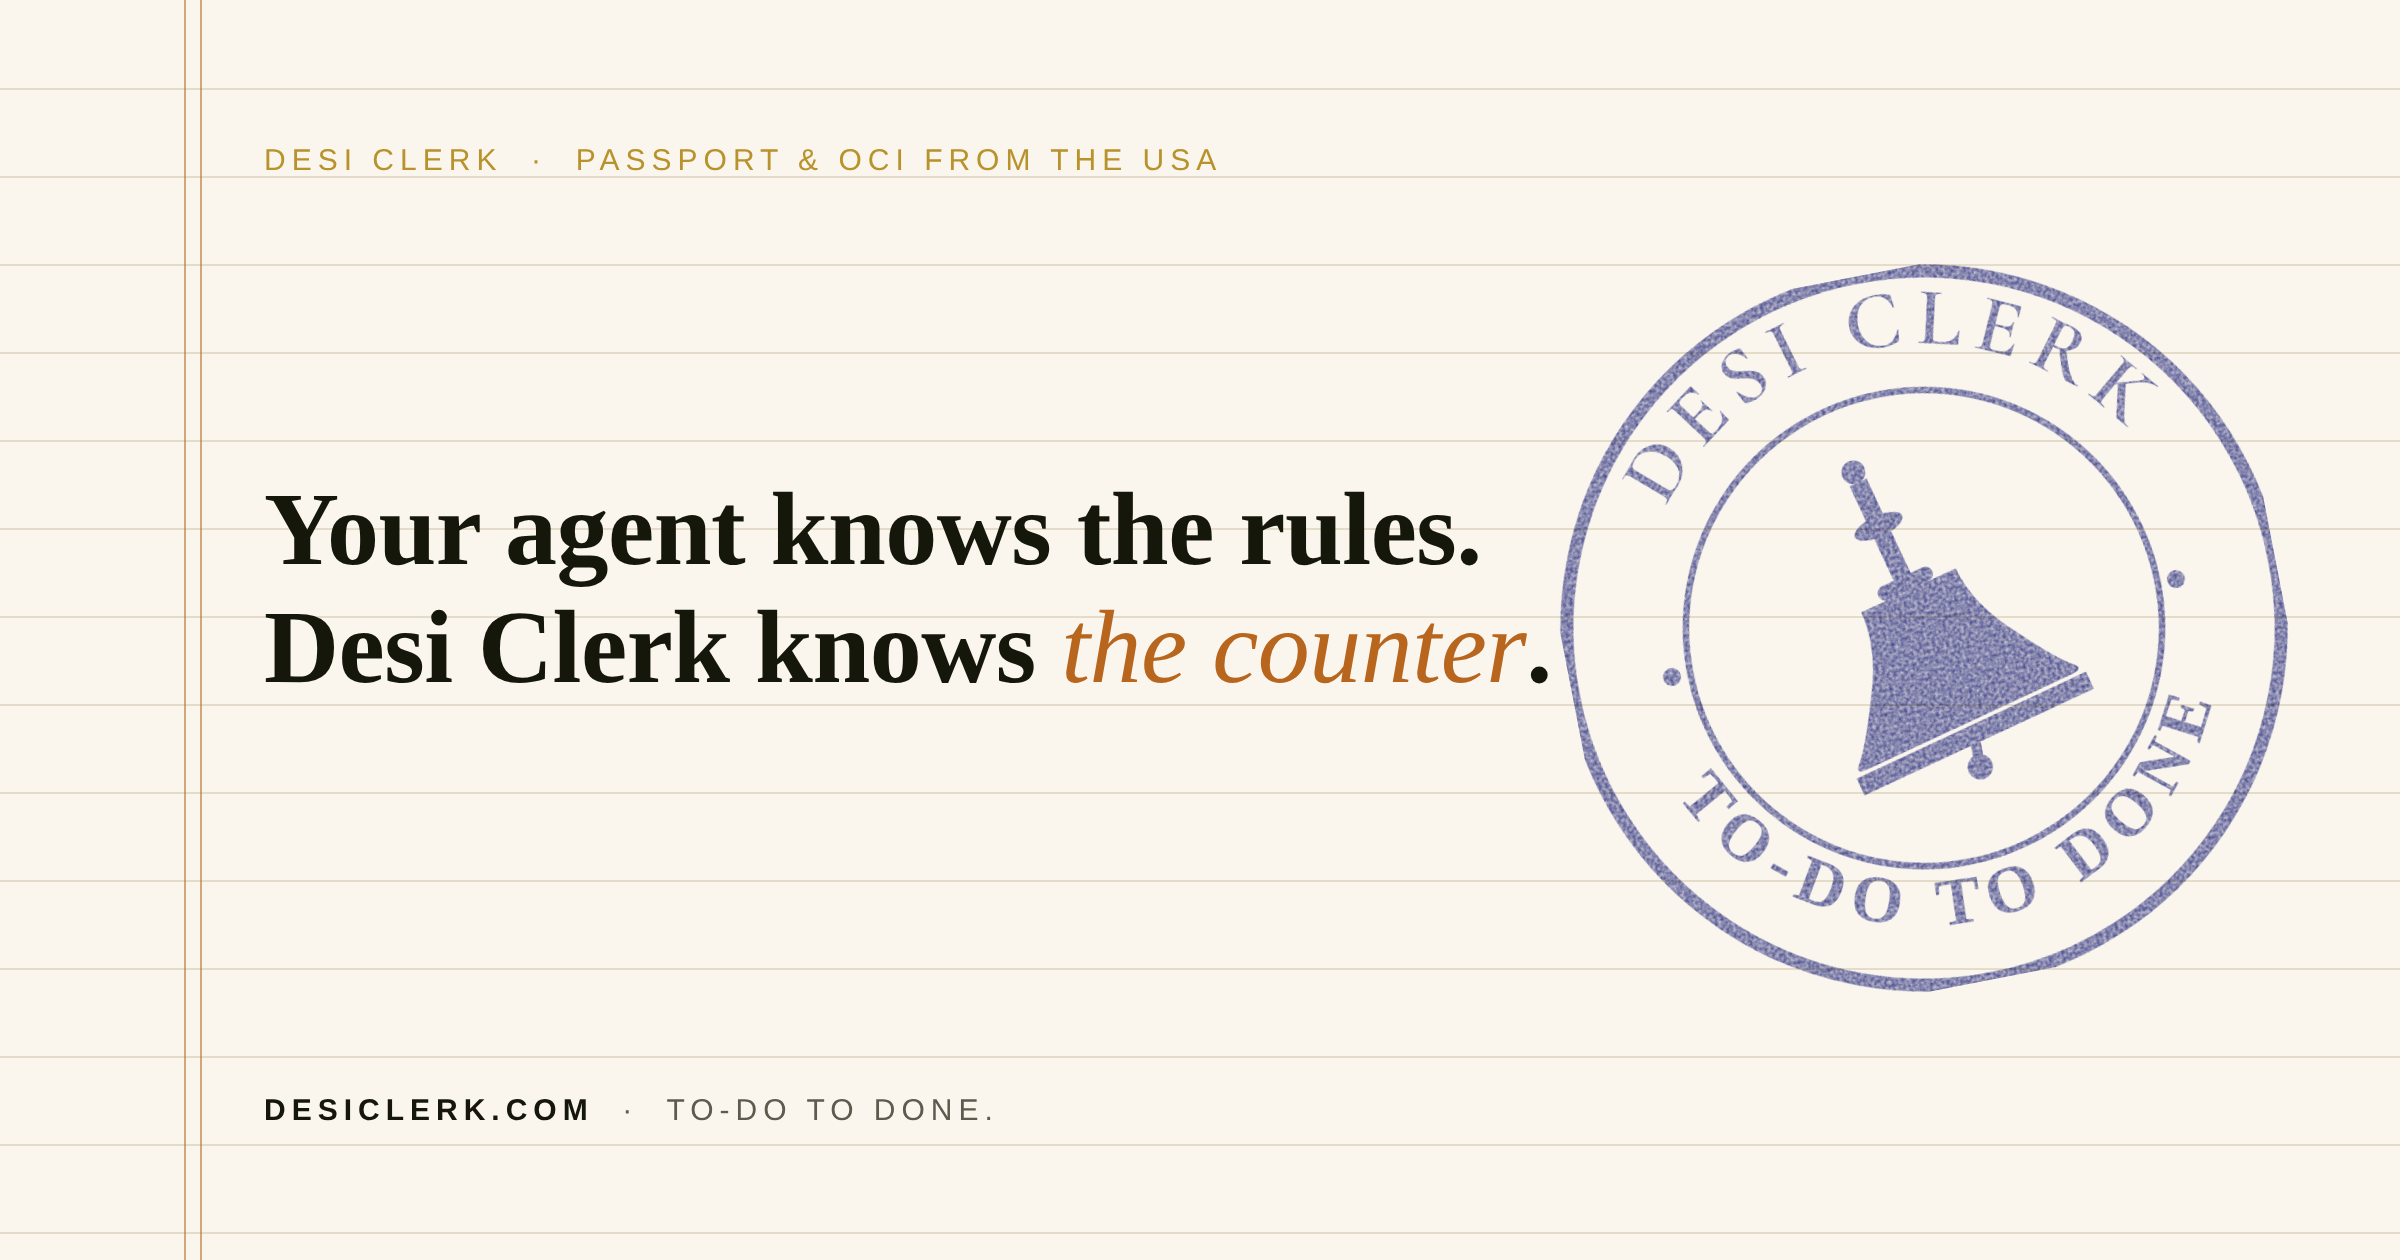
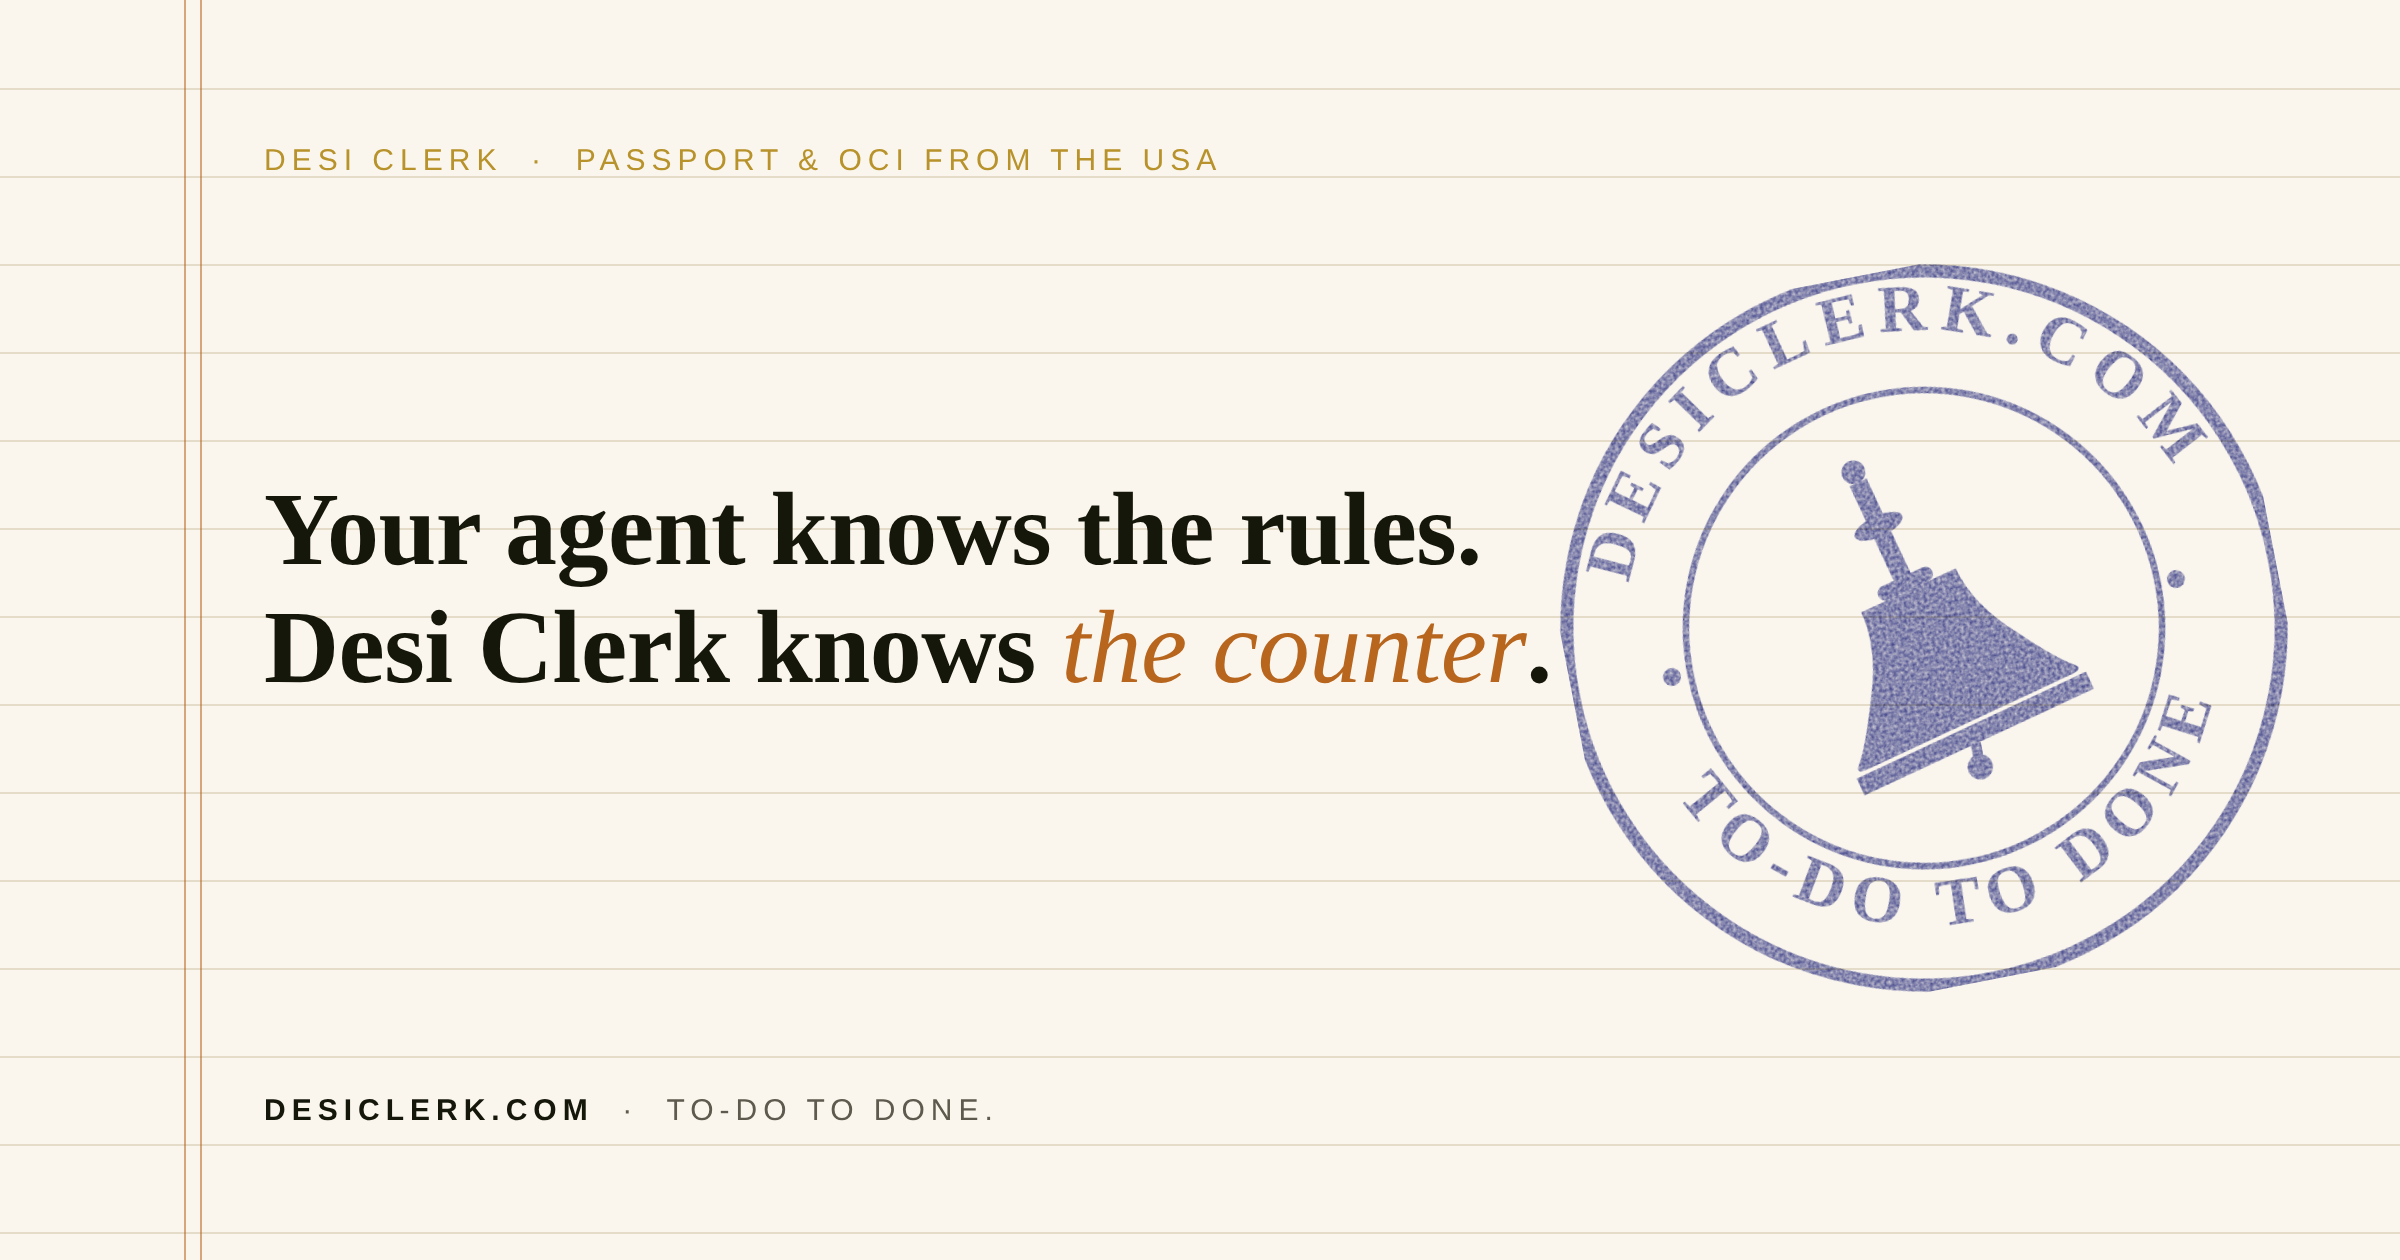
Card stamp: URL on top
Claude-Session: https://claude.ai/code/session_017b7oD9xgapqAYvH9hE42Uo

Changed region(s): [[0.6562, 0.2167, 0.9375, 0.4643]]

diff --git a/card-source.html b/card-source.html
@@ -25,7 +25,8 @@ html,body{margin:0;background:var(--cream)}
 <g fill="#3B3F8F" filter="url(#grain)">
 <circle cx="100" cy="100" r="96" fill="none" stroke="#3B3F8F" stroke-width="3.5"/>
 <circle cx="100" cy="100" r="64" fill="none" stroke="#3B3F8F" stroke-width="1.75"/>
-<path d="M42.5 49.67Q42.05 50.18 41.32 50.89Q40.6 51.6 40.04 52.24Q39.52 52.81 39.07 53.35Q38.62 53.89 38.24 54.32Q38.21 54.35 38.11 54.26Q38.01 54.17 38.04 54.14Q38.52 53.6 38.69 53.25Q38.85 52.9 38.69 52.59Q38.52 52.28 38.05 51.85L30.44 45.08Q29.97 44.65 29.65 44.53Q29.33 44.41 29 44.59Q28.67 44.78 28.2 45.31Q28.16 45.36 28.06 45.27Q27.96 45.18 28 45.14Q28.38 44.72 28.86 44.23Q29.34 43.73 29.86 43.16Q30.37 42.58 30.94 41.86Q31.5 41.15 31.93 40.66Q33.47 38.94 35.26 38.25Q37.06 37.55 38.83 37.85Q40.6 38.15 42.01 39.41Q43.24 40.51 43.85 41.83Q44.46 43.15 44.48 44.53Q44.5 45.91 43.99 47.24Q43.48 48.57 42.5 49.67ZM42.02 49.54Q43.03 48.4 43.27 47.05Q43.51 45.7 42.91 44.27Q42.31 42.83 40.8 41.49Q39.39 40.23 37.84 39.68Q36.28 39.13 34.86 39.38Q33.44 39.62 32.4 40.79Q31.53 41.76 31.35 42.34Q31.17 42.92 31.87 43.54L39.26 50.13Q39.89 50.7 40.49 50.65Q41.08 50.6 42.02 49.54Z M58.98 35.28 51.22 40.85Q51.17 40.88 51.1 40.78Q51.02 40.67 51.07 40.63Q51.66 40.21 51.88 39.91Q52.1 39.62 52.01 39.28Q51.91 38.94 51.54 38.43L45.6 30.15Q45.22 29.64 44.94 29.45Q44.66 29.26 44.3 29.36Q43.94 29.47 43.35 29.9Q43.3 29.93 43.23 29.82Q43.15 29.72 43.2 29.68L50.64 24.34Q50.81 24.21 50.93 24.37L52.63 26.66Q52.66 26.71 52.57 26.78Q52.49 26.86 52.43 26.83Q51.49 25.96 50.5 25.91Q49.52 25.85 48.5 26.59L47.77 27.11Q47.33 27.43 47.14 27.71Q46.95 27.99 47 28.29Q47.05 28.6 47.32 28.98L53.19 37.13Q53.46 37.52 53.73 37.69Q54 37.85 54.29 37.8Q54.58 37.74 54.97 37.46L55.85 36.83Q57.06 35.96 57.39 34.84Q57.72 33.71 57.21 32.33Q57.19 32.27 57.3 32.22Q57.42 32.17 57.45 32.21Q57.74 32.76 58.19 33.49Q58.63 34.22 59.06 34.81Q59.25 35.08 58.98 35.28ZM55.07 31.95Q54.53 31.2 53.75 31.16Q52.98 31.13 51.96 31.85L49.46 33.65L49.13 33.2L51.66 31.38Q52.65 30.67 52.89 29.98Q53.13 29.29 52.67 28.65Q52.63 28.6 52.74 28.53Q52.84 28.45 52.87 28.5Q53.28 29.07 53.5 29.4Q53.72 29.72 53.97 30.07Q54.28 30.5 54.6 30.9Q54.93 31.3 55.29 31.8Q55.31 31.83 55.2 31.91Q55.1 31.99 55.07 31.95Z M61.47 20.96Q61.83 21.74 62.49 22.14Q63.15 22.53 63.99 22.69Q64.84 22.85 65.75 22.98Q66.72 23.1 67.64 23.29Q68.56 23.49 69.32 23.96Q70.08 24.43 70.53 25.39Q71 26.41 70.82 27.45Q70.65 28.49 69.91 29.38Q69.17 30.27 67.89 30.85Q67.34 31.11 66.7 31.28Q66.07 31.44 65.48 31.51Q64.89 31.57 64.48 31.5Q64.36 31.48 64.28 31.43Q64.19 31.37 64.11 31.21L62.59 28.25Q62.53 28.16 62.63 28.1Q62.74 28.04 62.79 28.11Q63.32 28.61 63.95 29.12Q64.58 29.64 65.28 29.99Q65.97 30.35 66.71 30.44Q67.44 30.53 68.19 30.19Q68.69 29.95 69.07 29.56Q69.46 29.17 69.55 28.58Q69.64 28 69.28 27.22Q68.84 26.27 68.11 25.8Q67.39 25.33 66.5 25.13Q65.61 24.94 64.68 24.82Q63.77 24.7 62.9 24.51Q62.04 24.33 61.35 23.88Q60.65 23.44 60.24 22.54Q59.74 21.44 60.01 20.46Q60.29 19.48 61.06 18.72Q61.84 17.95 62.81 17.5Q63.47 17.2 64.21 17.01Q64.94 16.82 65.51 16.8Q65.73 16.79 65.83 16.86Q65.93 16.93 65.99 17.05L67.28 19.74Q67.31 19.8 67.23 19.87Q67.14 19.94 67.08 19.89Q66.85 19.64 66.4 19.2Q65.95 18.77 65.35 18.39Q64.74 18.01 64.02 17.88Q63.3 17.75 62.52 18.1Q61.93 18.38 61.6 18.82Q61.28 19.27 61.23 19.81Q61.19 20.35 61.47 20.96Z M80.19 24.26Q80.36 24.87 80.56 25.16Q80.76 25.45 81.13 25.46Q81.5 25.47 82.2 25.28Q82.26 25.26 82.29 25.39Q82.33 25.52 82.27 25.53Q81.73 25.68 81.06 25.84Q80.4 26 79.61 26.22Q78.86 26.43 78.19 26.64Q77.52 26.84 76.98 26.99Q76.93 27.01 76.89 26.88Q76.86 26.75 76.91 26.74Q77.6 26.55 77.93 26.34Q78.25 26.14 78.28 25.79Q78.32 25.44 78.15 24.82L75.44 15Q75.27 14.39 75.07 14.11Q74.86 13.84 74.47 13.82Q74.08 13.8 73.39 13.99Q73.34 14.01 73.3 13.88Q73.27 13.75 73.32 13.74Q73.86 13.59 74.55 13.44Q75.23 13.28 75.98 13.07Q76.77 12.85 77.43 12.64Q78.09 12.42 78.61 12.28Q78.67 12.26 78.71 12.39Q78.74 12.52 78.68 12.53Q78 12.72 77.69 12.94Q77.38 13.17 77.35 13.52Q77.32 13.87 77.49 14.48Z M104.06 9.58Q104.81 9.6 105.53 9.69Q106.24 9.78 106.87 9.95Q107.49 10.12 107.99 10.37Q108.17 10.45 108.22 10.54Q108.27 10.63 108.28 10.88L108.49 13.79Q108.49 13.85 108.37 13.88Q108.26 13.9 108.22 13.81Q107.69 12 106.59 11.02Q105.48 10.04 103.8 10Q102.17 9.95 100.9 10.73Q99.63 11.5 98.88 12.96Q98.14 14.42 98.09 16.46Q98.05 17.97 98.45 19.24Q98.84 20.5 99.6 21.42Q100.35 22.35 101.38 22.87Q102.4 23.39 103.63 23.42Q105.28 23.46 106.36 22.62Q107.43 21.78 108.27 19.98Q108.31 19.92 108.41 19.94Q108.52 19.97 108.51 20.03L108.16 22.64Q108.13 22.9 108.08 22.97Q108.02 23.04 107.84 23.13Q106.75 23.54 105.71 23.7Q104.67 23.86 103.61 23.84Q101.25 23.78 99.45 22.83Q97.64 21.89 96.64 20.25Q95.63 18.62 95.69 16.52Q95.73 14.94 96.38 13.64Q97.02 12.34 98.16 11.42Q99.3 10.5 100.81 10.02Q102.31 9.54 104.06 9.58Z M119.74 13.77 117.33 23.55Q117.19 24.1 117.22 24.4Q117.26 24.69 117.54 24.86Q117.81 25.02 118.4 25.17L119.68 25.48Q121.2 25.86 122.46 25.26Q123.71 24.66 124.41 23.33Q124.44 23.27 124.54 23.31Q124.65 23.36 124.63 23.42Q124.4 24.07 124.11 24.99Q123.82 25.9 123.62 26.69Q123.54 27.01 123.22 26.93L113.21 24.47Q113.17 24.46 113.2 24.33Q113.23 24.2 113.27 24.21Q113.97 24.38 114.35 24.36Q114.72 24.34 114.92 24.05Q115.12 23.76 115.27 23.14L117.71 13.25Q117.86 12.63 117.82 12.29Q117.78 11.95 117.46 11.75Q117.14 11.54 116.44 11.37Q116.39 11.36 116.43 11.23Q116.46 11.11 116.5 11.12Q117.01 11.24 117.69 11.44Q118.37 11.65 119.12 11.83Q119.92 12.03 120.59 12.16Q121.27 12.29 121.79 12.42Q121.85 12.43 121.82 12.56Q121.79 12.69 121.73 12.68Q121.04 12.51 120.66 12.54Q120.28 12.57 120.09 12.86Q119.89 13.15 119.74 13.77Z M136.51 32.62 127.86 28.57Q127.81 28.55 127.86 28.43Q127.92 28.31 127.97 28.33Q128.63 28.64 129 28.69Q129.36 28.74 129.61 28.49Q129.86 28.24 130.13 27.67L134.45 18.44Q134.72 17.87 134.75 17.53Q134.78 17.19 134.51 16.93Q134.24 16.67 133.58 16.36Q133.53 16.34 133.59 16.22Q133.64 16.1 133.7 16.12L141.99 20.01Q142.18 20.1 142.1 20.28L140.93 22.88Q140.91 22.93 140.8 22.89Q140.69 22.86 140.69 22.79Q140.99 21.54 140.55 20.66Q140.12 19.77 138.98 19.24L138.17 18.86Q137.68 18.63 137.34 18.6Q137 18.57 136.76 18.77Q136.52 18.96 136.32 19.38L132.06 28.48Q131.86 28.9 131.84 29.22Q131.83 29.53 132.02 29.76Q132.21 29.99 132.65 30.19L133.63 30.65Q134.97 31.29 136.12 31.02Q137.26 30.76 138.22 29.65Q138.26 29.6 138.36 29.67Q138.46 29.75 138.44 29.8Q138.1 30.32 137.68 31.06Q137.26 31.81 136.95 32.47Q136.81 32.77 136.51 32.62ZM137.5 27.59Q137.9 26.76 137.55 26.06Q137.2 25.36 136.07 24.83L133.28 23.52L133.52 23.01L136.34 24.34Q137.45 24.86 138.17 24.73Q138.88 24.6 139.22 23.89Q139.24 23.83 139.36 23.88Q139.47 23.94 139.44 23.99Q139.14 24.63 138.97 24.98Q138.79 25.33 138.61 25.71Q138.38 26.2 138.19 26.67Q138 27.15 137.74 27.71Q137.72 27.75 137.6 27.69Q137.48 27.63 137.5 27.59Z M150.06 42Q149.79 41.79 149.69 40.66Q149.59 39.53 149.69 37.62Q149.79 35.72 150.05 33.17L151.77 33.81Q151.57 37.02 151.6 39.06Q151.62 41.09 151.97 42.25Q152.32 43.4 153.03 43.95Q153.07 43.98 152.99 44.09Q152.91 44.19 152.87 44.16Q151.77 43.31 151.07 42.78Q150.38 42.25 150.06 42ZM154.53 28Q156.06 29.18 156.41 30.41Q156.77 31.64 155.97 32.68Q155.2 33.68 154.03 34.03Q152.87 34.37 151.63 34.12Q150.4 33.86 149.38 33.08Q149.16 32.91 148.92 32.72Q148.69 32.53 148.5 32.36L145.51 36.24Q145.12 36.75 145.01 37.08Q144.9 37.41 145.12 37.72Q145.33 38.02 145.91 38.46Q145.95 38.49 145.86 38.6Q145.78 38.7 145.74 38.67Q145.3 38.33 144.77 37.9Q144.25 37.46 143.6 36.96Q142.99 36.49 142.42 36.09Q141.85 35.68 141.41 35.33Q141.36 35.3 141.44 35.19Q141.52 35.09 141.57 35.12Q142.15 35.57 142.5 35.7Q142.85 35.83 143.15 35.65Q143.45 35.46 143.84 34.96L150.06 26.89Q150.45 26.38 150.55 26.06Q150.65 25.73 150.44 25.42Q150.24 25.11 149.66 24.67Q149.62 24.64 149.7 24.53Q149.78 24.43 149.82 24.46Q150.26 24.8 150.79 25.24Q151.31 25.69 151.92 26.16Q152.49 26.59 153.22 27.08Q153.96 27.56 154.53 28ZM153.79 31.98Q154.57 30.97 154.75 30.24Q154.93 29.52 154.68 28.98Q154.42 28.44 153.86 28.01Q153.18 27.48 152.7 27.51Q152.21 27.54 151.7 28.21L148.86 31.89Q149.08 32.11 149.35 32.34Q149.62 32.58 149.83 32.74Q150.99 33.63 151.92 33.42Q152.84 33.21 153.79 31.98Z M157.8 46.99 165.72 40.58Q166.21 40.18 166.39 39.89Q166.56 39.59 166.42 39.23Q166.29 38.88 165.84 38.33Q165.81 38.28 165.91 38.2Q166.01 38.11 166.05 38.16Q166.4 38.6 166.81 39.15Q167.22 39.71 167.7 40.3Q168.22 40.94 168.67 41.45Q169.13 41.96 169.47 42.38Q169.51 42.43 169.41 42.51Q169.3 42.59 169.27 42.55Q168.82 42 168.49 41.8Q168.17 41.61 167.83 41.72Q167.5 41.83 167 42.23L159.12 48.62Q158.63 49.02 158.44 49.32Q158.26 49.62 158.4 49.96Q158.54 50.31 158.99 50.87Q159.04 50.93 158.94 51.01Q158.84 51.1 158.79 51.04Q158.44 50.6 158.03 50.07Q157.62 49.53 157.11 48.89Q156.62 48.3 156.16 47.76Q155.7 47.22 155.34 46.79Q155.32 46.75 155.42 46.67Q155.52 46.59 155.55 46.62Q156 47.19 156.32 47.4Q156.64 47.61 156.97 47.51Q157.31 47.4 157.8 46.99ZM162.49 50.54 163.74 45.44 165.8 45.74 164.48 51.07Q164.09 52.55 163.88 53.53Q163.66 54.52 163.59 55.13Q163.51 55.74 163.57 56.11Q163.63 56.48 163.8 56.74Q163.97 57.01 164.2 57.29Q164.24 57.34 164.14 57.43Q164.03 57.51 163.99 57.46Q163.38 56.7 163.01 56.24Q162.63 55.78 162.44 55.55Q162.26 55.33 162.12 55.18Q161.98 55.04 161.88 54.91Q161.7 54.69 161.65 54.46Q161.61 54.23 161.69 53.8Q161.77 53.38 161.97 52.61Q162.16 51.84 162.49 50.54ZM161.47 44.99 169.52 45.77Q170.67 45.89 170.95 45.43Q171.23 44.97 170.53 44.1Q170.49 44.06 170.59 43.97Q170.69 43.89 170.73 43.94Q171.09 44.38 171.44 44.87Q171.79 45.35 172.41 46.11Q173.03 46.88 173.42 47.3Q173.81 47.73 174.14 48.15Q174.19 48.2 174.08 48.28Q173.98 48.36 173.94 48.31Q173.35 47.58 172.23 47.01Q171.11 46.44 169.76 46.28L161.8 45.46Z"/>
+<defs><path id="arctop" d="M 20,100 A 80,80 0 0,1 180,100"/></defs>
+<text font-family="'Cormorant Garamond',Georgia,serif" font-size="18" font-weight="600" letter-spacing="3.2" fill="#3B3F8F" text-anchor="middle"><textPath href="#arctop" startOffset="50%">DESICLERK.COM</textPath></text>
 <defs><path id="arc" d="M 20,100 A 80,80 0 0,0 180,100"/></defs>
 <text font-family="'Cormorant Garamond',Georgia,serif" font-size="18" font-weight="600" letter-spacing="3.2" fill="#3B3F8F" text-anchor="middle"><textPath href="#arc" startOffset="50%">TO-DO TO DONE</textPath></text>
 <circle cx="31" cy="100" r="2.4"/><circle cx="169" cy="100" r="2.4"/>
